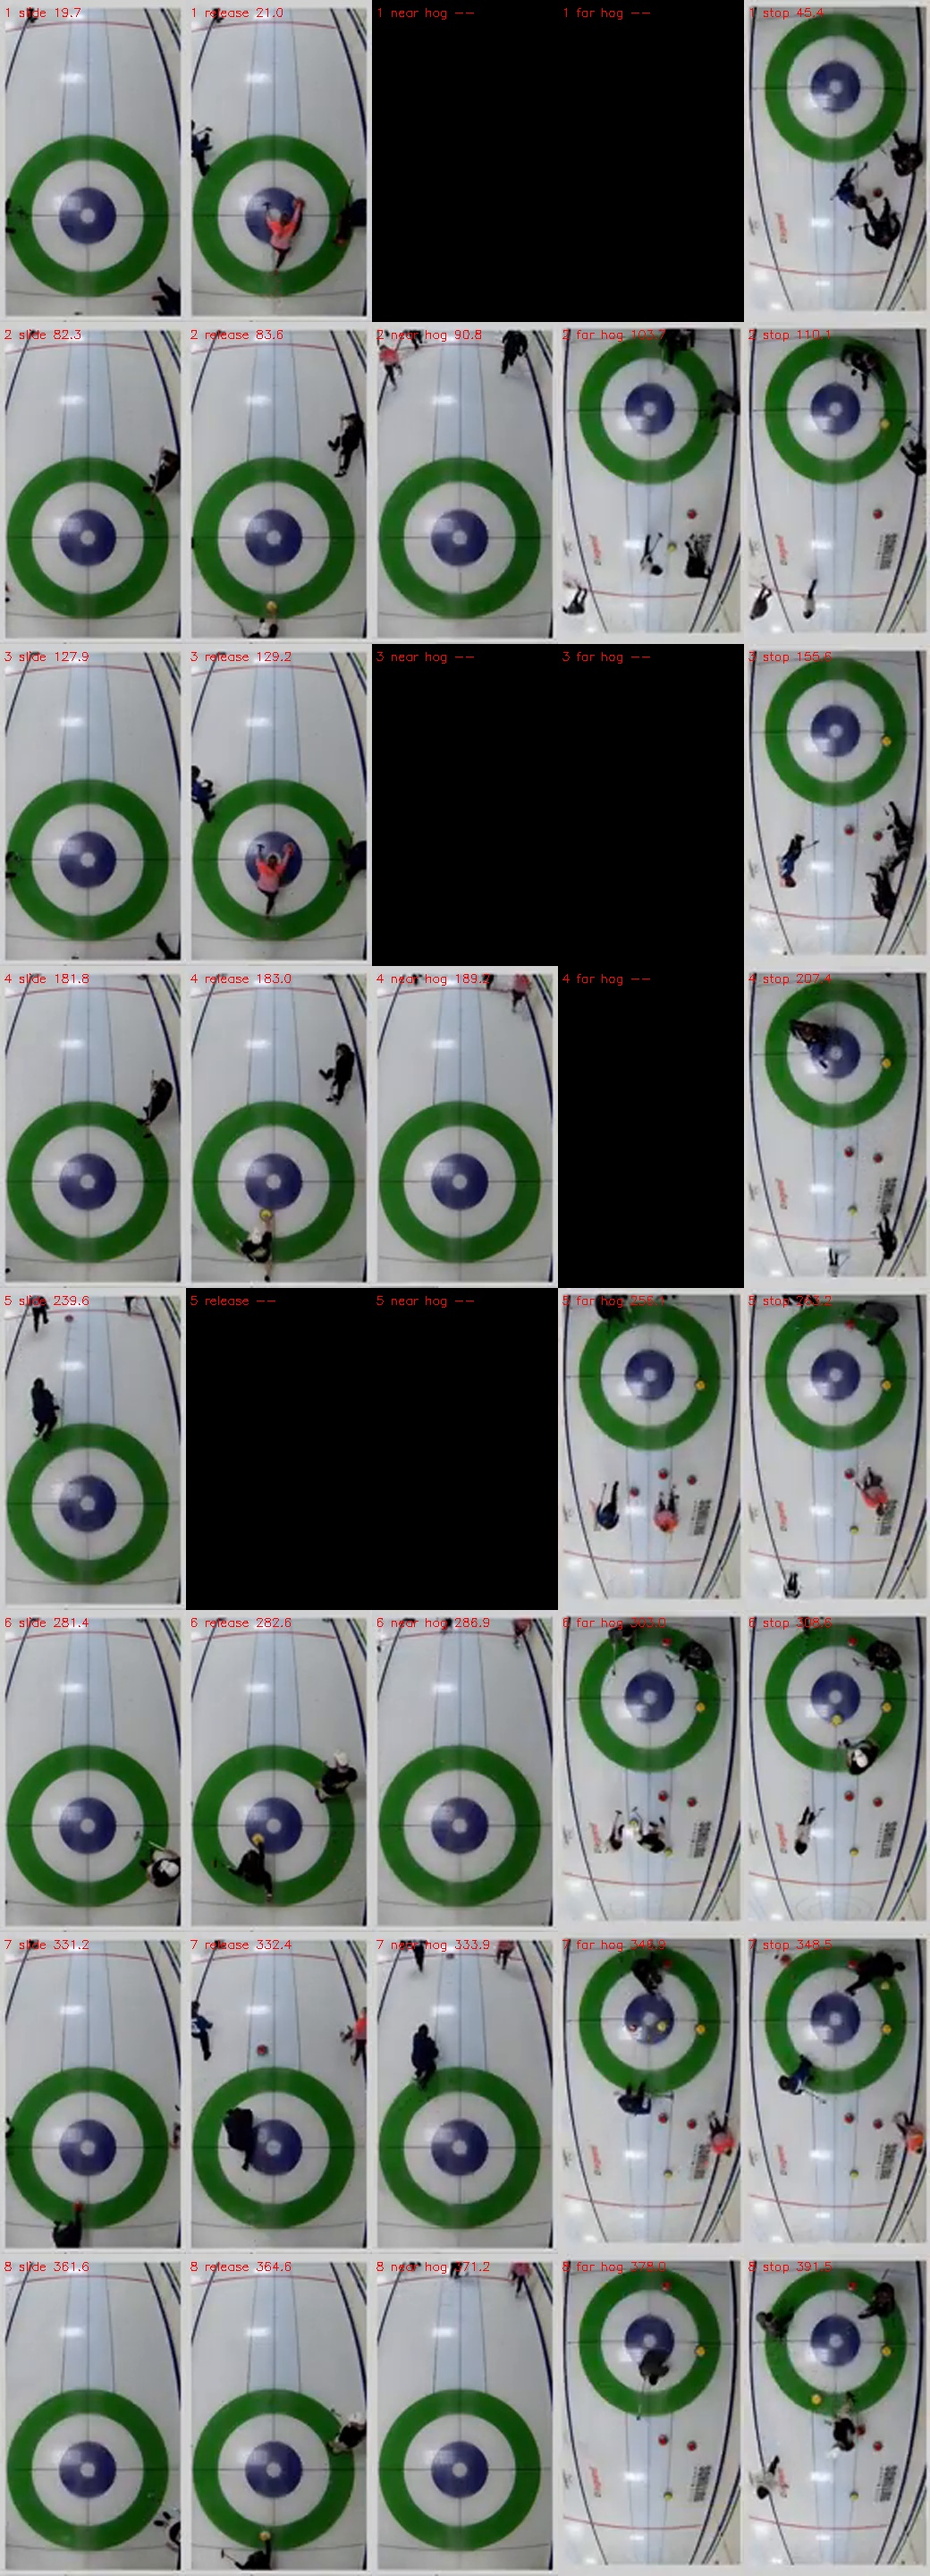
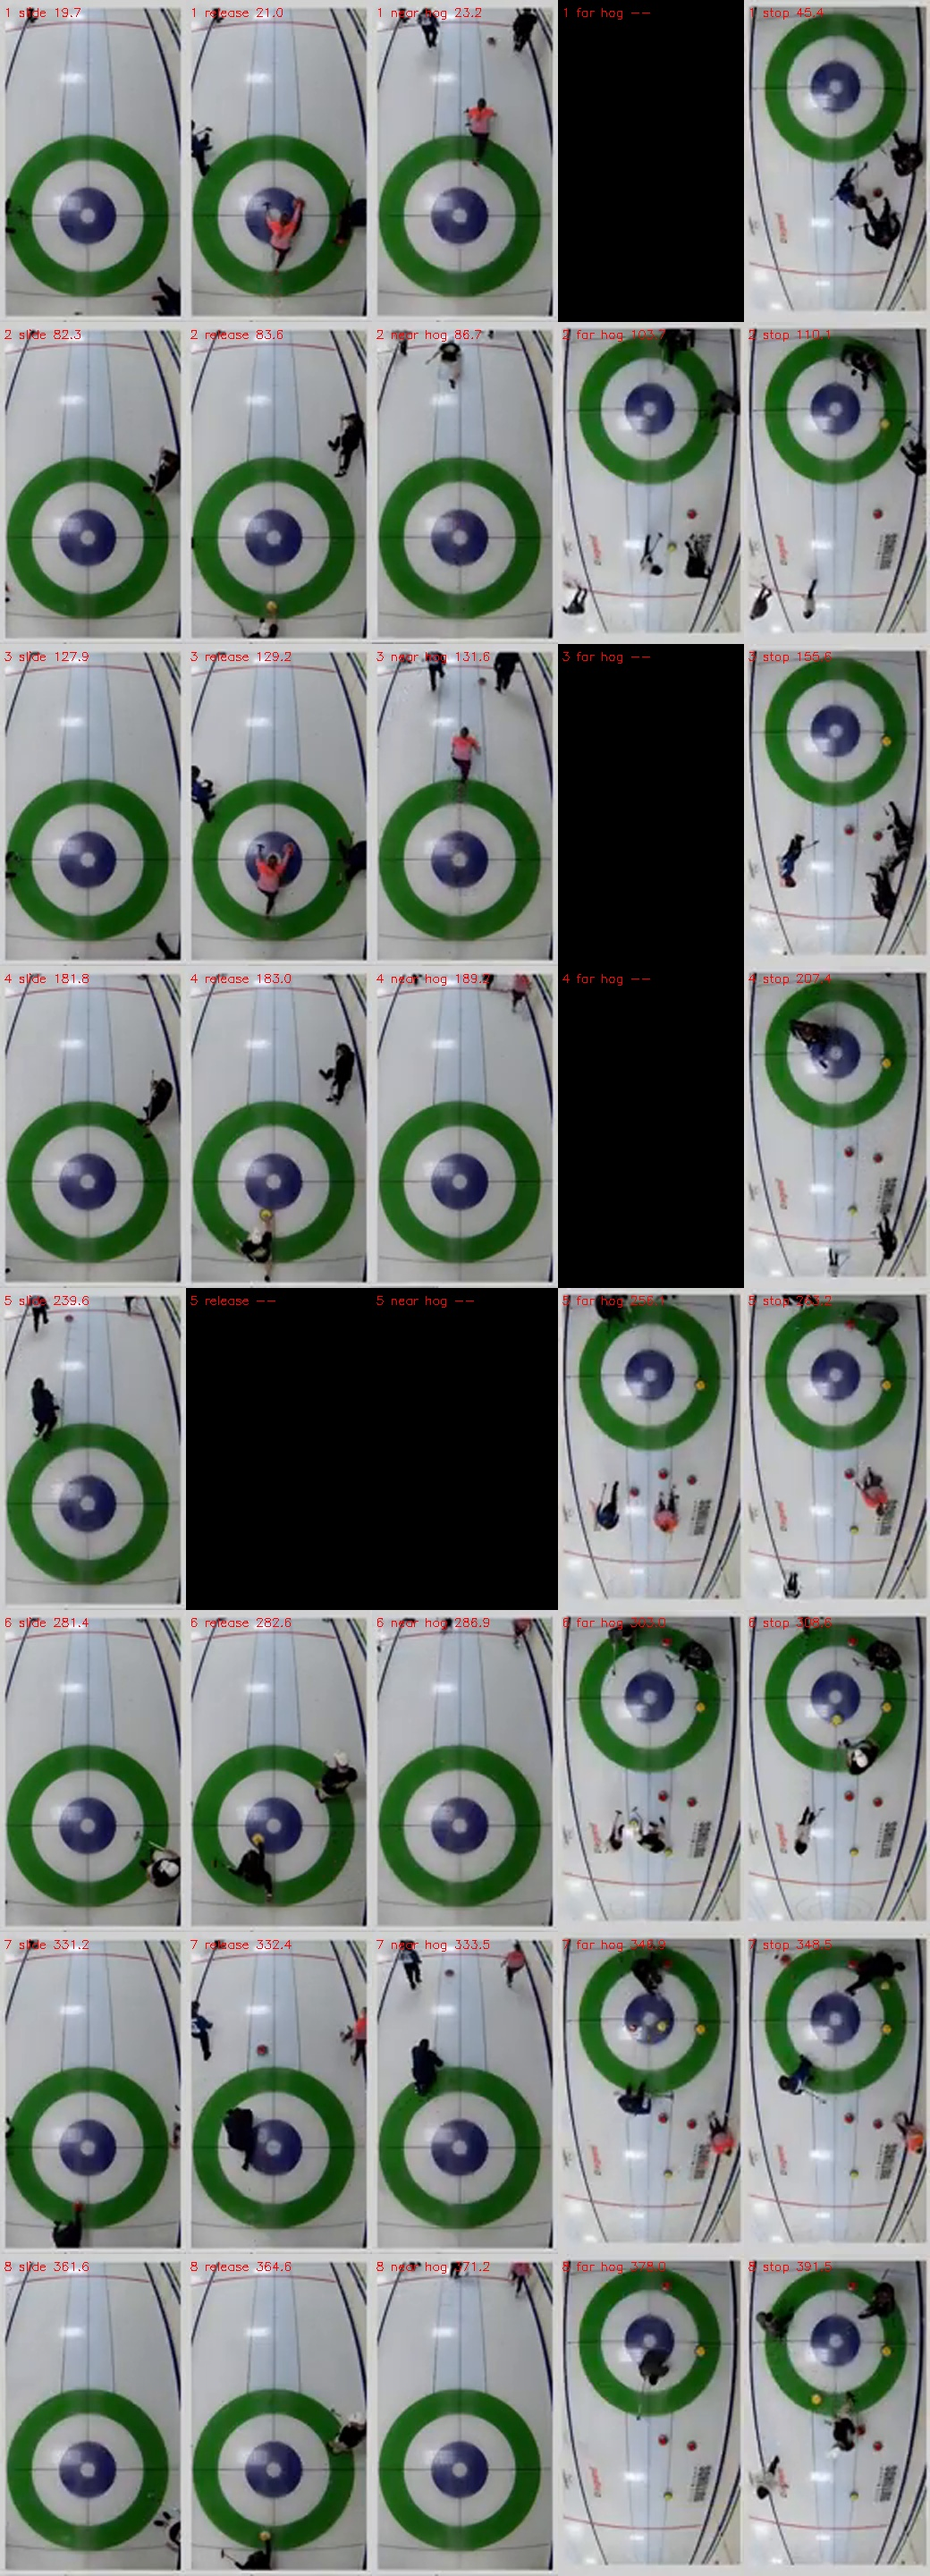
Near-hog crossing: extrapolate the rock's own velocity in feet
The rock's handle drops below one pixel in the delivery cam's fisheye
fringe (last ~7 ft before the near hogline), and red handles merge with
the red hogline, so the crossing often cannot be observed directly. The
dot track is now converted to feet via landmark calibration (tee, front
ring edge, hogline) and the rock's measured velocity is extrapolated
across the invisible stretch. Direct measurement still wins when the
track reaches the line; the sweep-group band scan remains as a last
resort. Near-hog coverage 11/16 -> 13/16 and shot 2's broom-driven
outlier corrected (release->hog now 3.1 s).

https://claude.ai/code/session_01MNKhrUA8bh9zUdwcJneQ2v

diff --git a/src/phases.py b/src/phases.py
@@ -101,7 +101,13 @@ def calibrate(cap, quiet_times):
                     "hog_y": find_hogline(strip, (int(ty + try_) + 5, 178))},
         "delivery": {"pin": [bx, by], "px_per_in": [brx / 72.0, bry / 72.0],
                      "hog_y": find_hogline(strip, (182, int(by - bry) - 5)),
-                     "back_y": by + bry},
+                     "back_y": by + bry,
+                     # y row -> feet in front of the tee, for velocity
+                     # extrapolation across the fisheye fringe where the
+                     # handle drops below a pixel (piecewise linear between
+                     # known landmarks: tee, front ring edge, hogline)
+                     "y_ft": [[by, 0.0], [by - bry, 6.0],
+                              [float(find_hogline(strip, (182, int(by - bry) - 5))), 21.0]]},
     }
 
 
@@ -214,13 +220,28 @@ def track_delivery(cap, t_seed, calib, fps=8.0):
         chain = min(chains, key=lambda c: c[0][0]) if chains else []
         if chain:
             t4 = chain[0][0]
-            # phase 5: the sweep/stone group reaches the delivery hogline.
-            # Trigger just below the line: red dots merge with the red
-            # hogline pixels into one oversized component right at it.
+            # phase 5: the rock crosses the delivery hogline. Measured
+            # directly when the dot track reaches the line region (trigger
+            # just below it: red handles merge with the red hogline pixels);
+            # otherwise extrapolated from the rock's own velocity in feet --
+            # the handle drops below a pixel in the last feet of the
+            # fisheye's view, so there is nothing left to detect there.
             crossed = [(t, y) for t, x, y in chain if y <= dcal["hog_y"] + 14]
             if crossed:
                 t5 = crossed[0][0]
             else:
+                ys = [r[0] for r in dcal["y_ft"]][::-1]
+                fts = [r[1] for r in dcal["y_ft"]][::-1]
+                phys = [(t, float(np.interp(y, ys, fts))) for t, x, y in chain]
+                tail = phys[-3:]
+                if len(tail) >= 2 and tail[-1][1] - tail[0][1] >= 2.0:
+                    v = (tail[-1][1] - tail[0][1]) / (tail[-1][0] - tail[0][0])
+                    dt = (21.0 - tail[-1][1]) / v
+                    if 0 < dt <= 4.0:
+                        t5 = tail[-1][0] + dt
+            if t5 is None:
+                # last resort: any small dot reaching the line region (the
+                # sweep group crosses with the rock, within ~1 s)
                 for i, ds in enumerate(dotlists):
                     if ts[i] <= t4:
                         continue
